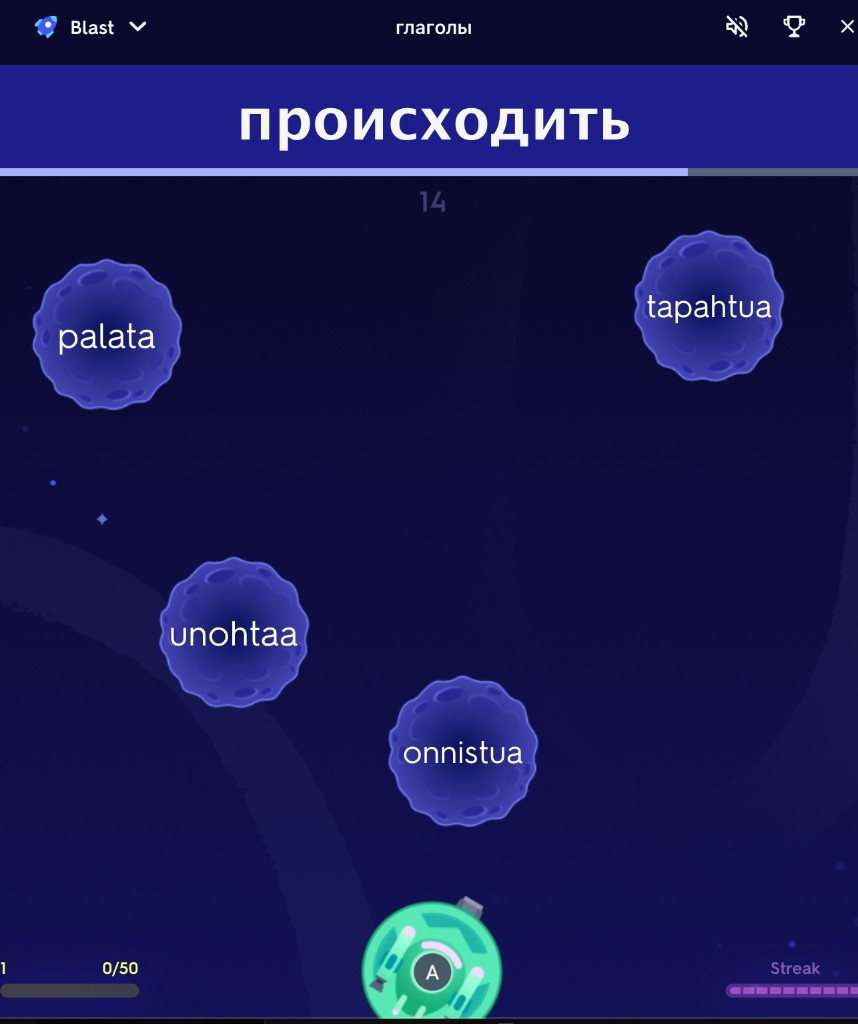
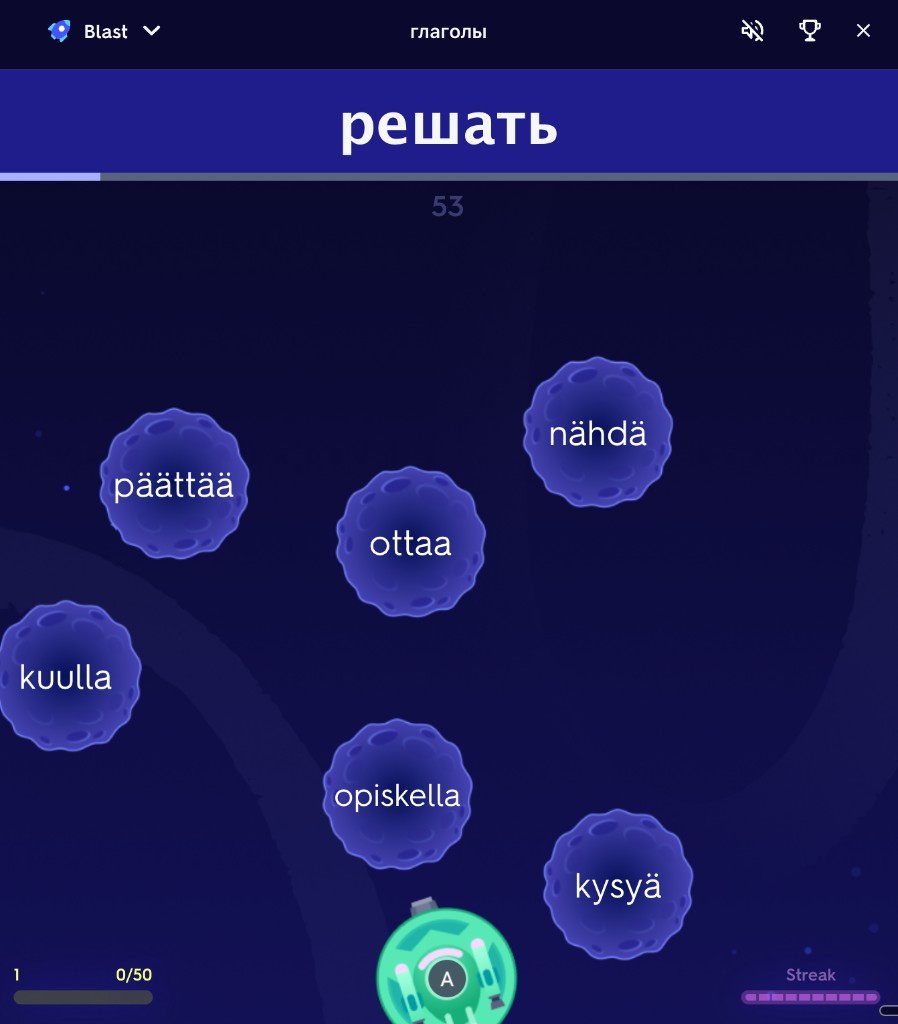
Update Quizlet image and optimize material card layout
- Replaced Quizlet image with Finnish verbs game (решать - päättää, ottaa, etc.)
- Made all material images uniform size and as large as possible
- Removed bottom padding from cards so images fill the space
- Added flexbox layout to material cards for better image positioning
- Removed inline styles in favor of CSS styling
- Images now end right at card bottom with no extra space

diff --git a/index.html b/index.html
@@ -214,7 +214,7 @@
                     <h3>Визуальные схемы и карты</h3>
                     <p>Для структуры и грамматики – интерактивные доски, на которых можно визуализировать логику языка и создавать персональные карты.</p>
                     <div class="material-demo">
-                        <img src="miro-example.png" alt="Пример визуальной схемы по финскому языку" style="width: 100%; border-radius: 0.5rem; box-shadow: 0 4px 6px rgba(0, 0, 0, 0.1);">
+                        <img src="miro-example.png" alt="Пример визуальной схемы по финскому языку">
                     </div>
                 </div>
                 <div class="material-card">
@@ -227,7 +227,7 @@
                     <h3>Системы повторения словаря</h3>
                     <p>Индивидуальные наборы карточек для запоминания слов с возможностью практики в любое время между занятиями.</p>
                     <div class="material-demo">
-                        <img src="quizlet-example.png" alt="Пример набора карточек для запоминания слов" style="width: 100%; border-radius: 0.5rem; box-shadow: 0 4px 6px rgba(0, 0, 0, 0.1);">
+                        <img src="quizlet-example.png" alt="Пример набора карточек для запоминания слов">
                     </div>
                 </div>
                 <div class="material-card">
@@ -239,7 +239,7 @@
                     <h3>Индивидуальные задания и темы</h3>
                     <p>Упражнения и темы для разговора, связанные с вашими интересами. При желании возможна практика через голосовые сообщения для развития спонтанной речи.</p>
                     <div class="material-demo">
-                        <img src="stories-example.png" alt="Пример обучения через любимые истории и книги" style="width: 100%; border-radius: 0.5rem; box-shadow: 0 4px 6px rgba(0, 0, 0, 0.1);">
+                        <img src="stories-example.png" alt="Пример обучения через любимые истории и книги">
                     </div>
                 </div>
             </div>

diff --git a/styles.css b/styles.css
@@ -465,9 +465,11 @@ blockquote {
 
 .material-card {
     background-color: var(--bg-white);
-    padding: 2rem;
+    padding: 2rem 2rem 0 2rem;
     border-radius: 1rem;
     box-shadow: var(--shadow-md);
+    display: flex;
+    flex-direction: column;
 }
 
 .material-icon {
@@ -488,7 +490,18 @@ blockquote {
 }
 
 .material-demo {
-    margin-top: 1.5rem;
+    margin-top: auto;
+    margin-bottom: 0;
+    overflow: hidden;
+    border-radius: 0 0 1rem 1rem;
+}
+
+.material-demo img {
+    width: 100%;
+    height: auto;
+    display: block;
+    object-fit: cover;
+    border-radius: 0 0 0.5rem 0.5rem;
 }
 
 .demo-placeholder {
